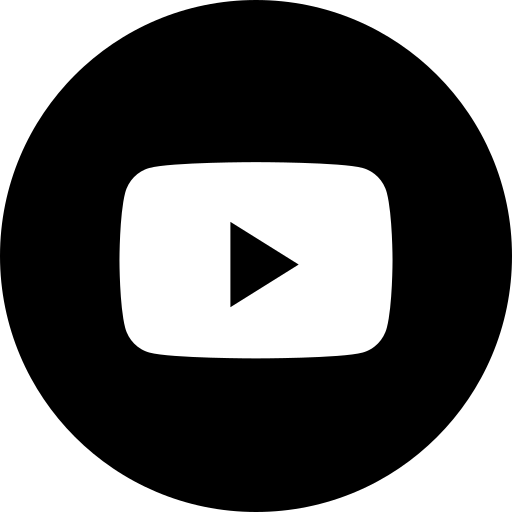
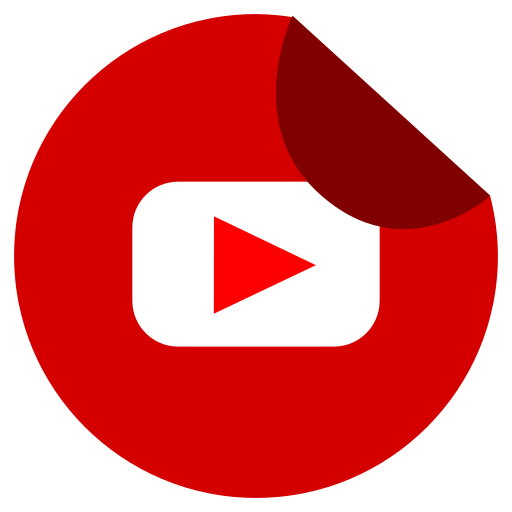
Se han varias modificaciones, se ha agregado una pagina sobre informacion de la empresa, tambien se han cambiado los iconos de las redes y se ha registrado el formulario con Formspree

diff --git a/Sobre Nosotros.html b/Sobre Nosotros.html
@@ -4,8 +4,8 @@
 <head>
     <meta charset="UTF-8">
     <meta name="viewport" content="width=device-width, initial-scale=1.0">
-    <title>Home Pro</title>
-    <link rel="stylesheet" href="pagina principal.css">
+    <title>Sobre Nosotros</title>
+    <link rel="stylesheet" href="Sobre Nosotros.css">
     <link href="https://cdn.jsdelivr.net/npm/bootstrap@5.3.3/dist/css/bootstrap.min.css" rel="stylesheet"
         integrity="sha384-QWTKZyjpPEjISv5WaRU9OFeRpok6YctnYmDr5pNlyT2bRjXh0JMhjY6hW+ALEwIH" crossorigin="anonymous">
 </head>
@@ -72,61 +72,15 @@
     </div>
     <br>
 
-    <h1>¡CONOCÉ NUESTROS PRODUCTOS MÁS DESTACADOS!</h1>
-    <br><br>
 
-    <!--Incorporacion del elemento card a traves de Bootstrap-->
-    <div id="carouselExampleCaptions" class="carousel slide">
-        <div class="carousel-indicators">
-          <button type="button" data-bs-target="#carouselExampleCaptions" data-bs-slide-to="0" class="active" aria-current="true" aria-label="Slide 1"></button>
-          <button type="button" data-bs-target="#carouselExampleCaptions" data-bs-slide-to="1" aria-label="Slide 2"></button>
-          <button type="button" data-bs-target="#carouselExampleCaptions" data-bs-slide-to="2" aria-label="Slide 3"></button>
-        </div>
-        <div class="carousel-inner">
-          <div class="carousel-item active">
-            <img src="./imagenes/Notebook.png" class="d-block w-45 mx-auto" alt="...">
-            <br><br><br><br><br><br><br><br>
-            <div class="carousel-caption d-none d-md-block">
-              <h5>Notebook HP Intel® Core™ Ultra 5 14" 8GB 512GB SSD</h5>
-              <p>¡Aprovecha nuestros descuentos navideños y contacta con tus familiares mas lejanos en estas fiesas!</p>
-            </div>
-          </div>
-          <div class="carousel-item">
-            <img src="./imagenes/Celular.png" class="d-block w-40 mx-auto" alt="...">
-            <br><br><br><br><br><br><br><br>
-            <div class="carousel-caption d-none d-md-block">
-              <h5>Celular Samsung Galaxy A25 5G 128GB Blue Black</h5>
-              <p>¡Aprovecha nuestros descuentos navideños y guarda esos hermosos momentos con tu familia en estas fiestas!</p>
-            </div>
-          </div>
-          <div class="carousel-item">
-            <img src="./imagenes/Televisor.png" class="d-block w-40 mx-auto" alt="...">
-            <br><br><br><br><br><br><br>
-            <div class="carousel-caption d-none d-md-block">
-              <h5>Smart TV 32" HD Samsung</h5>
-              <p>¡En estas fiestas aprovecha nuestros descuentos y visualiza las fiestas alrededor del mundo junto a tu familia!</p>
-            </div>
-          </div>
-        </div>
-        <button class="carousel-control-prev" type="button" data-bs-target="#carouselExampleCaptions" data-bs-slide="prev">
-          <span class="carousel-control-prev-icon" aria-hidden="true"></span>
-          <span class="visually-hidden">Previous</span>
-        </button>
-        <button class="carousel-control-next" type="button" data-bs-target="#carouselExampleCaptions" data-bs-slide="next">
-          <span class="carousel-control-next-icon" aria-hidden="true"></span>
-          <span class="visually-hidden">Next</span>
-        </button>
-      </div>
-    <br><br><br>
-    
+    <p>Lorem ipsum, dolor sit amet consectetur adipisicing elit. Aspernatur ab incidunt quaerat sapiente fugiat laborum
+        sit error, reprehenderit doloribus, architecto nulla voluptate et consectetur. Ipsam voluptates commodi non in
+        porro. Lorem ipsum dolor sit amet, consectetur adipisicing elit. Debitis cum qui tenetur nam maiores dignissimos
+        vel et a officiis error? Harum, officiis? Qui eius sint officiis dicta soluta, id modi.
+        Lorem ipsum dolor sit amet consectetur adipisicing elit. Unde ullam laborum possimus totam exercitationem?
+        Dolorum voluptate vel autem quas eum ea, nisi tenetur in facere neque quia quisquam cum recusandae.</p>
 
-    <div class="redes">
-        <h6>Seguinos tambien en:</h6>
-        <img src="./imagenes/facebook.png" alt="icono" class="icono-imagen">
-        <img src="./imagenes/instagam.png" alt="" class="icono-imagen">
-        <img src="./imagenes/youtube.png" alt="icono" class="icono-imagen">
-        <img src="./imagenes/whatsapp.png" alt="icono" class="icono-imagen">
-    </div>
+
 
 
 

diff --git a/formulario.html b/formulario.html
@@ -32,7 +32,7 @@
                             <a class="nav-link" href="formulario.html">Contacto</a>
                         </li>
                         <li class="nav-item">
-                            <a class="nav-link" href="">Sobre Nosotros</a>
+                            <a class="nav-link" href="Sobre Nosotros.html">Sobre Nosotros</a>
                         </li>
                         <li class="nav-item dropdown">
                             <a class="nav-link dropdown-toggle" href="#" role="button" data-bs-toggle="dropdown"
@@ -73,9 +73,10 @@
         consulta,
         completa el siguiente formulario, nuestros asesores se comunicarán con uds a la brevedad.
     </h1><br><br><br>
-
+<form action="https://formspree.io/f/manyzozb" method="post">
+    
     <div class="principal">
-        <label for=""> Nombre</label><br>
+        <label for=""> Nombre</label> <br>
         <input type="text" name="Nombre" required placeholder="Introduzca su nombre">
     </div>
     <br><br><br><br>
@@ -103,6 +104,7 @@
     <div class="secundario">
         <input type="submit">
     </div>
+</form>
 
 
 

diff --git a/Sobre Nosotros.css b/Sobre Nosotros.css
@@ -58,40 +58,13 @@ input {
 }
 
 body {
-    margin: 0;
-    padding: 0;
-    background-image:url(./imagenes/fondo.jpg);
+    background-image: url(./imagenes/fondo.jpg);
     background-size: cover;
     background-repeat: no-repeat;
     background-position: center;
-    height: 100vh;
-}
-
-body h1{
-    color: white;
-    text-align: center;
 }
 
 p{
-    font-size: xx-large;
-}
 
-body h6 {
     color: white;
-
-}
-
-.icono-imagen {
-    width: 40px;
-    height: 40px;
-    text-align: center;
-}
-
-body .redes{
-    display: flex;
-    justify-content: center;
-    align-items: center;
-    gap: 10px;
-    margin-top: 20px;
-
 }

diff --git a/formulario.css b/formulario.css
@@ -49,14 +49,20 @@ body h1 {
 
 
 body {
-    background-image: linear-gradient(45deg, #670000, #000);
+    background-image:url(./imagenes/fondo.jpg);
+    background-size: cover;
+    background-repeat: no-repeat;
+    background-position: center;
 }
+
 
 .principal {
     display: flex;
     justify-content: center;
     height: 50%;
 color: white;
+padding: 2px;
+
 }
 
 .secundario{
